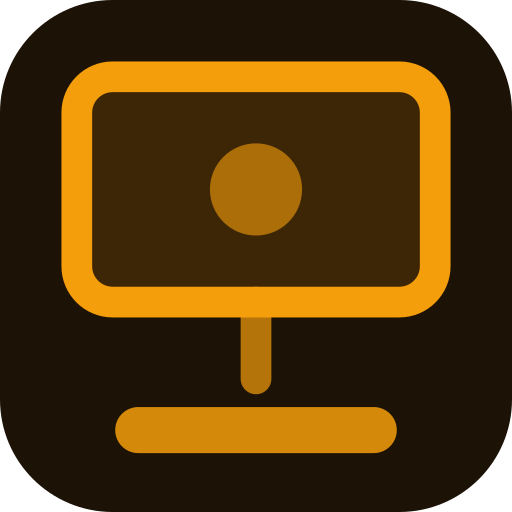
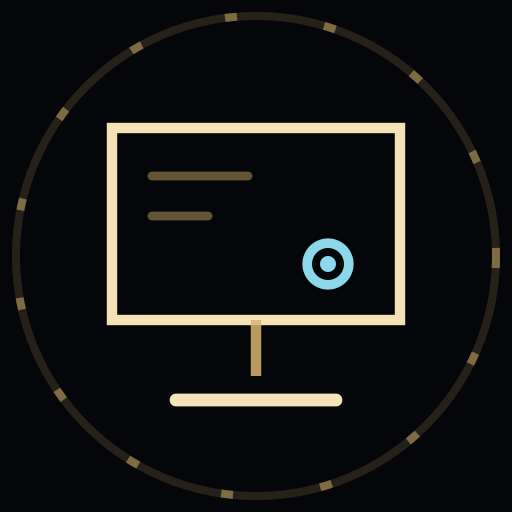
Rebuild the raster marks, and document what changed (#36)
The README logos and every icon-*/lockup-* PNG were still the old artwork —
only the SVG marks had been redrawn. Regenerated from the current lockup.svg
and favicon.svg with rsvg-convert, so the rasters match the app and keep their
transparency.

Documents features that had none:

* **Log Forwarding** — settings keys, admin endpoints, and why the format is
  RFC 5424 rather than 3164 (3164 timestamps carry no timezone, so the
  collector has to guess the offset, which has produced wrong timestamps in
  this suite before). Includes the failure that is otherwise very hard to
  diagnose: pktLog silently drops syslog from sources not enabled in its
  collector registry, and UDP gives the sender no indication either way.

* **Backup integrity** — snapshots go through SQLite's online-backup API and
  are verified before being counted as usable, because a torn WAL-mode copy
  looks exactly like a good backup until you need it.

diff --git a/README.md b/README.md
@@ -24,6 +24,7 @@ over the same always-open control channel.
 - [Installation](#installation)
 - [Using pktNode](#using-pktnode)
 - [Agent](#agent)
+- [Log Forwarding](#log-forwarding)
   - [Security Signals](#security-signals)
   - [Disk Tools](#disk-tools-agent-080)
   - [Platform Support: Unraid & Home Assistant OS](#platform-support-unraid--home-assistant-os)
@@ -793,6 +794,20 @@ restart to pick up `config.yaml` changes. Existing agents keep working
 against a restored server unchanged, since their bearer tokens live in the
 restored DB.
 
+### Backup integrity
+
+Database snapshots are taken through SQLite's own online-backup API and then
+verified with `PRAGMA integrity_check`; a snapshot that does not pass is logged
+loudly and not counted as usable.
+
+This matters more than it sounds. The database runs in WAL mode, so at any
+instant the committed state is split between the `.db` file and its `-wal`
+sidecar. The previous implementation copied the `.db` alone with `shutil.copy2`,
+which captures neither a consistent snapshot nor the most recent commits — the
+worst possible failure mode for the one artifact you reach for in an emergency,
+because it looks like a backup either way.
+
+
 ## Troubleshooting
 
 - **Agent shows as offline but the machine is up**: check the agent's own
@@ -890,3 +905,51 @@ go run . install --server http://localhost:8764 --token <enrollment-token>
   entries yet. Speed Test also isn't wired into `agent/internal/haosloop`
   at all yet, even though `internal/speedtest.Run` itself is
   platform-agnostic and could be reused directly.
+
+## Log Forwarding
+
+pktNode writes its own application log to the in-app **Logs** page. It can also
+ship that log to a syslog collector — normally **pktLog**, which listens on
+port `5514` — so this app's events sit alongside the rest of the estate.
+
+Settings keys (Settings → Data → Log Forwarding in apps that expose the UI;
+otherwise via `PUT /api/settings`):
+
+| Key | Default | Meaning |
+|---|---|---|
+| `log_forward_enabled` | `false` | Turn forwarding on |
+| `log_forward_host` | `""` | Collector hostname or IP |
+| `log_forward_port` | `5514` | pktLog's syslog port |
+| `log_forward_protocol` | `udp` | `udp` or `tcp` |
+| `log_forward_level` | `INFO` | Minimum level forwarded |
+| `log_forward_app_name` | `pktnode` | APP-NAME in the syslog message |
+
+Admin endpoints:
+
+- `GET  /api/system/log-forward/status` — delivery counters (sent, dropped, errors)
+- `POST /api/system/log-forward/test` — send one test line without saving settings
+- `POST /api/system/log-forward/reload` — apply settings changes without a restart
+
+**Format is RFC 5424, deliberately.** pktLog parses both 3164 and 5424, but
+3164 timestamps carry no timezone and the collector has to guess the offset —
+which has produced wrong timestamps in this suite before. 5424 carries a full
+offset, so there is nothing to guess.
+
+**Delivery is fire-and-forget** on a background thread, with counters. Log
+forwarding must never block or crash the thing it observes: a dropped line is a
+nuisance, a stalled collector loop is an outage. If the collector is
+unreachable, lines are dropped and counted rather than raised.
+
+### If forwarded logs never arrive
+
+**pktLog drops syslog from sources that are not registered.** Its
+`collector_registry` gates what is allowed to persist, so the sending host's IP
+must be present *and enabled* under pktLog's Settings → Collectors. Until then
+the messages are accepted on the wire and silently discarded — the sender sees
+a successful send either way, because UDP cannot tell it otherwise. pktLog also
+caches that registry for five minutes, so a newly enabled source is not live
+immediately.
+
+Use the **Send test message** button (or the `test` endpoint) to confirm the
+path end to end rather than assuming it works.
+
